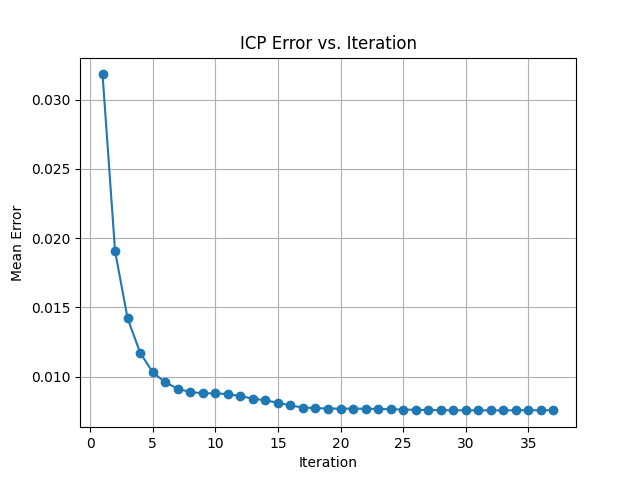
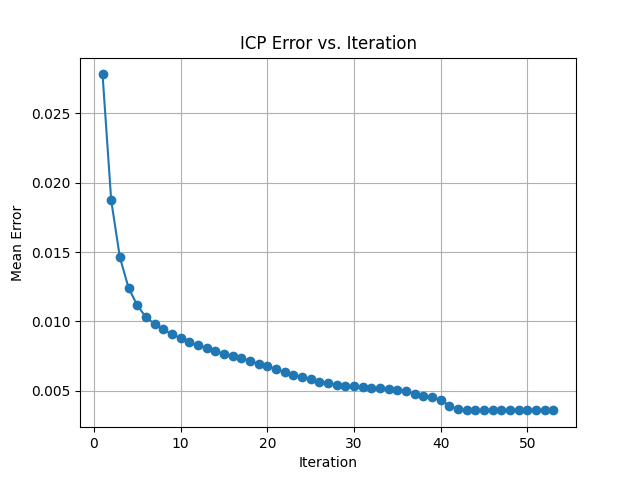
add some picures

diff --git a/ROB465_HW4/HW4files/pointclouds/pca_template.py b/ROB465_HW4/HW4files/pointclouds/pca_template.py
@@ -8,10 +8,16 @@ from mpl_toolkits.mplot3d import Axes3D  # Import 3D plotting tools explicitly
 
 ###YOUR IMPORTS HERE###
 
-
 def main():
 
-    #Import the cloud
+    print("\nYOU NEED TO ROTATE THE PICTURE TO SEE THE TITLE AND GREEN PLANE OF THE PICTURE!!!!!!!!!!!!!!")
+    print("YOU NEED TO ROTATE THE PICTURE TO SEE THE TITLE AND GREEN PLANE OF THE PICTURE!!!!!!!!!!!!!!")
+    print("YOU NEED TO ROTATE THE PICTURE TO SEE THE TITLE AND GREEN PLANE OF THE PICTURE!!!!!!!!!!!!!!")
+    print("YOU NEED TO ROTATE THE PICTURE TO SEE THE TITLE AND GREEN PLANE OF THE PICTURE!!!!!!!!!!!!!!\n")
+
+    # plt.rcParams['figure.figsize'] = [, 12]  # Width: 12 inches, Height: 8 inches
+
+    # Import the cloud
     pc = utils.load_pc('cloud_pca.csv')
 
     ###YOUR CODE HERE###
@@ -37,15 +43,15 @@ def main():
     # Rotate the point cloud (apply rotation matrix)
     pc_rotated = (pc_flattened @ eigenvectors).reshape(pc.shape)
 
-    #Show the resulting point cloud
+    # Show the resulting point cloud
     fig = utils.view_pc([pc_rotated])  # Shape: (200, 3, 1)
     ax = fig.axes[0]
-    ax.view_init(elev=90, azim=-90)  # Align with XY plane
+    ax.view_init(elev=45, azim=-45)  # Align with XY plane
     plt.title("Part a: Rotated Point Cloud")
     print("Part a) V^T matrix applied:")
     print(eigenvectors.T)
+    plt.tight_layout()  # Adjust layout to make room for the title
     plt.show()  # Display the plot and wait until it's closed
-
 
     # Part b: Rotate the points and eliminate noise
     n_components = 2  # Keep the first two principal components
@@ -62,10 +68,8 @@ def main():
 
     pc_denoised[:, 2, :] = 0  # Explicitly set z values to 0
 
-
-
     # Show the resulting point cloud
-    fig = plt.figure()
+    fig = plt.figure(figsize=(12, 8))  # Explicitly set figure size
     ax = fig.add_subplot(111, projection='3d')
 
     # Add axis labels
@@ -74,10 +78,10 @@ def main():
     ax.set_zlabel('Z')
 
     ax.scatter(pc_denoised[:, 0, 0], pc_denoised[:, 1, 0], pc_denoised[:, 2, 0], c='blue', marker='o')
-    ax.view_init(elev=90, azim=-90)  # Set the view from above to show the point cloud flattened on the XY plane
+    ax.view_init(elev=45, azim=-45)  # Set the view from above to show the point cloud flattened on the XY plane
     plt.title("Part b: Denoised 2D Point Cloud (Projected onto XY Plane)")
+    plt.tight_layout()  # Adjust layout
     plt.show()
-
 
     # Part c: Fit a plane to the cloud and draw it
     fig = utils.view_pc([pc])
@@ -103,21 +107,22 @@ def main():
         z_grid = np.full_like(x_grid, z0)
 
     # Plot the plane
-    ax.plot_surface(x_grid, y_grid, z_grid, color='green', alpha=0.5)
+    ax.plot_surface(x_grid, y_grid, z_grid, color='green', alpha=0.7)  # Increased alpha for better visibility
+
+    # Set the title after plotting the plane
     plt.title("Part c: Fitted Plane with Point Cloud")
-    ###YOUR CODE HERE###
 
+    # Adjust view angles to better visualize the plane
+    ax.view_init(elev=20, azim=30)  # Adjust as needed
 
-
-
-
-
-
-
+    plt.tight_layout()  # Adjust layout to make room for the title
     plt.show()
+
+    print("\nYOU NEED TO ROTATE THE PICTURE TO SEE THE TITLE AND GREEN PLANE OF THE PICTURE!!!!!!!!!!!!!!")
+    print("YOU NEED TO ROTATE THE PICTURE TO SEE THE TITLE AND GREEN PLANE OF THE PICTURE!!!!!!!!!!!!!!")
+    print("YOU NEED TO ROTATE THE PICTURE TO SEE THE TITLE AND GREEN PLANE OF THE PICTURE!!!!!!!!!!!!!!")
+    print("YOU NEED TO ROTATE THE PICTURE TO SEE THE TITLE AND GREEN PLANE OF THE PICTURE!!!!!!!!!!!!!!\n")
     #input("Press enter to end:")
-
-
 
 if __name__ == '__main__':
     main()

diff --git a/ROB465_HW4/HW4files/pointclouds/icp_template.py b/ROB465_HW4/HW4files/pointclouds/icp_template.py
@@ -22,6 +22,14 @@ def icp(source, target, max_iterations=100, tolerance=1e-5):
         errors (list): List of errors at each iteration.
     """
     # Initialize transformation
+    # theta = np.radians(90)
+    #
+    # # 绕 X 轴旋转
+    # R = np.array([
+    #     [1, 0, 0],
+    #     [0, np.cos(theta), -np.sin(theta)],
+    #     [0, np.sin(theta), np.cos(theta)]
+    # ])
     R = np.eye(3)
     t = np.zeros((3, 1))
     transformed_source = source.copy()
@@ -87,7 +95,7 @@ def main():
     pc_source = utils.load_pc('cloud_icp_source.csv')
 
     ###YOUR CODE HERE###
-    pc_target = utils.load_pc('cloud_icp_target3.csv')  # Change this to load a different target
+    pc_target = utils.load_pc('cloud_icp_target2.csv')  # Change this to load a different target
 
     print("Source Point Cloud:")
     print(pc_source)

diff --git a/ROB465_HW4/HW4files/pointclouds/pca_vs_ransac.py b/ROB465_HW4/HW4files/pointclouds/pca_vs_ransac.py
@@ -46,7 +46,7 @@ def compute_ransac_plane(pc):
         raise ValueError(f"Unexpected data shape in RANSAC: {data.shape}")
 
     max_iterations = 1000
-    distance_threshold = 0.01
+    distance_threshold = 0.05
     num_points = data.shape[0]
     best_inliers = []
     best_plane = None
@@ -139,8 +139,9 @@ def main():
             data = data.squeeze(axis=1)
         distances_pca = np.abs(np.dot(data, pca_normal) + pca_d)
         # Determine inliers
-        distance_threshold = 0.01
+        distance_threshold = 0.05
         pca_inlier_indices = np.where(distances_pca < distance_threshold)[0]
+        # print(distances_pca[np.where(distances_pca < distance_threshold)[0]])
         pca_error = np.sum(distances_pca[pca_inlier_indices] ** 2)
         pca_errors.append(pca_error)
         pca_times.append(pca_time)
